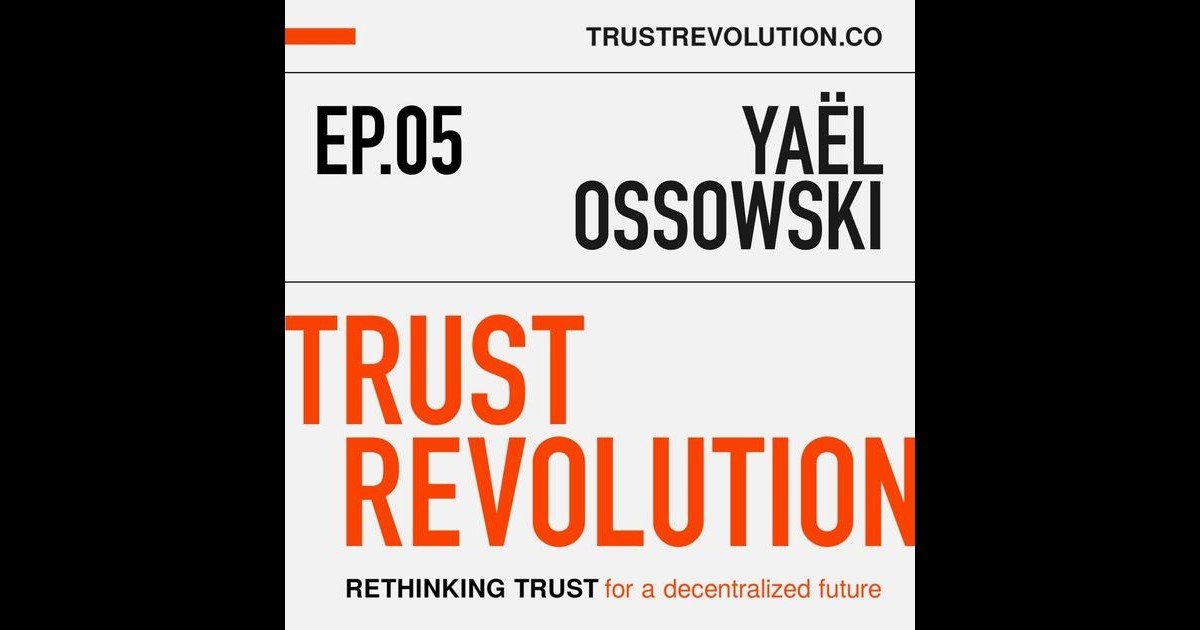
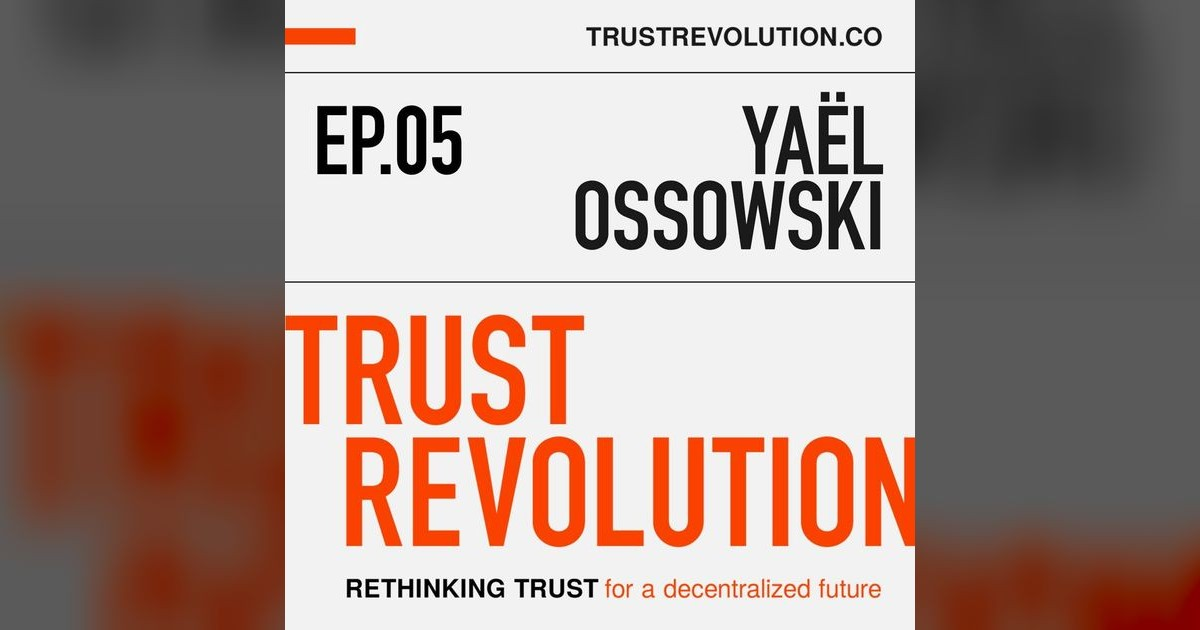
Replace black OG image bars with blurred cover background
Cover art scaled to fill 1200x630, blurred + darkened to 40%
brightness, with sharp cover composited centered on top. Bars
now inherit each cover's color palette as atmosphere instead of
dead black space. Added --force flag for regeneration.

diff --git a/scripts/generate-og-images.js b/scripts/generate-og-images.js
@@ -29,8 +29,9 @@ async function generateOgImage(episodePath) {
     return { status: 'skip', episodeId, reason: 'no cover' };
   }
 
-  // Check if OG image exists and is newer than episode file
-  if (fs.existsSync(outputPath)) {
+  // Check if OG image exists and is newer than episode file (skip with --force)
+  const force = process.argv.includes('--force');
+  if (!force && fs.existsSync(outputPath)) {
     const episodeStat = fs.statSync(episodePath);
     const ogStat = fs.statSync(outputPath);
 
@@ -39,18 +40,20 @@ async function generateOgImage(episodePath) {
     }
   }
 
+  // Sharp cover at full size
   const cover = await sharp(coverPath)
     .resize(COVER_SIZE, COVER_SIZE, { fit: 'cover', position: 'centre' })
     .toBuffer();
 
-  await sharp({
-    create: {
-      width: OG_WIDTH,
-      height: OG_HEIGHT,
-      channels: 3,
-      background: { r: 0, g: 0, b: 0 }
-    }
-  })
+  // Background: cover scaled to fill OG dimensions, blurred + darkened
+  const bg = await sharp(coverPath)
+    .resize(OG_WIDTH, OG_HEIGHT, { fit: 'cover', position: 'centre' })
+    .blur(30)
+    .modulate({ brightness: 0.4 })
+    .toBuffer();
+
+  // Composite sharp cover centered on blurred background
+  await sharp(bg)
     .composite([{ input: cover, left: BAR_WIDTH, top: 0 }])
     .jpeg({ quality: 90 })
     .toFile(outputPath);
